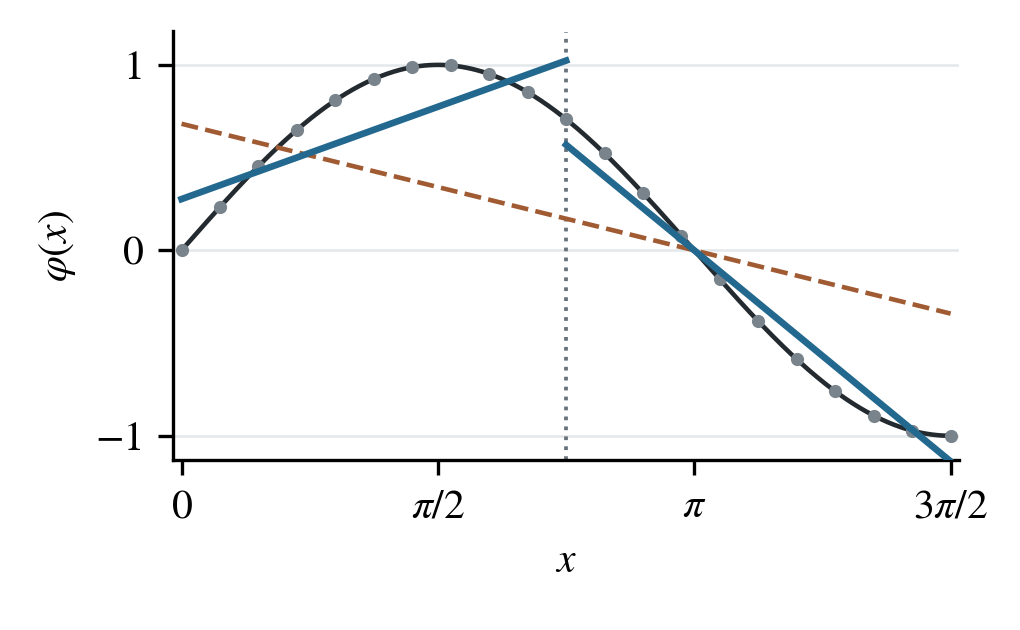
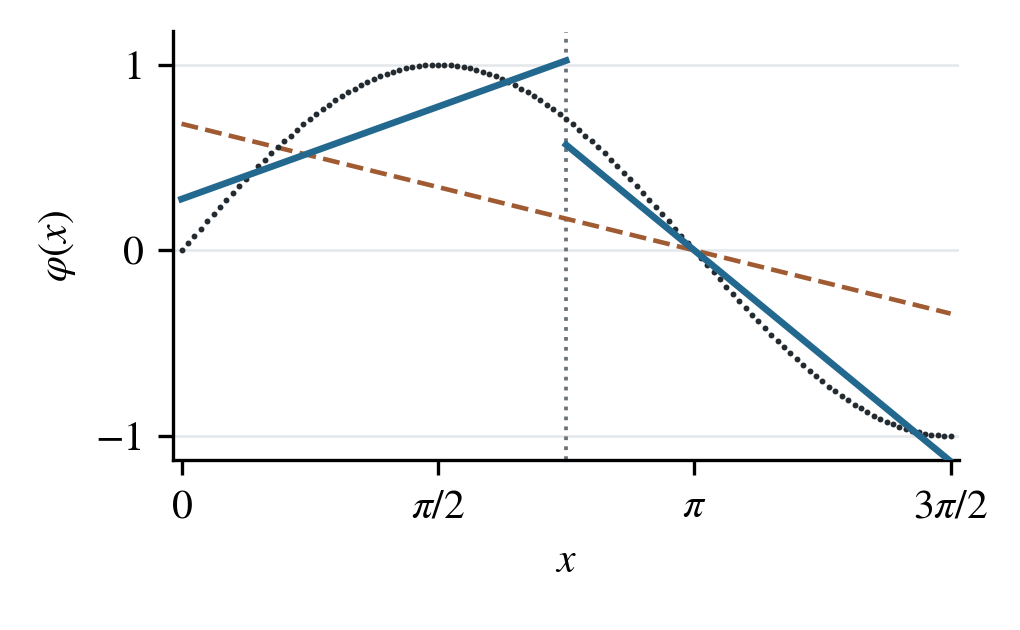
another update

diff --git a/examples/criteria_cmp/sine_split_stages.py b/examples/criteria_cmp/sine_split_stages.py
@@ -69,14 +69,14 @@ def draw_comparison(x, y, rows, threshold, parent_weights):
         "mathtext.fontset": "stix", "font.size": 10, "pdf.fonttype": 42,
         "axes.spines.top": False, "axes.spines.right": False,
     })
-    ink, samples, fit, cut, accent = "#242B30", "#78838B", "#23688E", "#68727A", "#733E77"
+    ink, samples, fit, cut, accent = "#242B30", "#242B30", "#23688E", "#68727A", "#733E77"
     parent_color = "#A05B33"
     figures = []
     grid = np.linspace(x[0], x[-1], 450)
     parent_fit = parent_weights[0] + parent_weights[1] * grid
     names = ("Residual-range", "Maximum-residual")
     handles = [
-        Line2D([], [], color=ink, label=r"$\varphi(x) = \sin x$"),
+        # Line2D([], [], color=ink, label=r"$\varphi(x) = \sin x$"),
         Line2D([], [], color=samples, linestyle="none", marker="o",
                markersize=3.6, label="Samples"),
         Line2D([], [], color=parent_color, linestyle="--", label="Global linear fit"),
@@ -90,9 +90,9 @@ def draw_comparison(x, y, rows, threshold, parent_weights):
             fig, ax = plt.subplots(figsize=(3.4, 2.1))
             fig.subplots_adjust(left=0.17, right=0.94, bottom=0.27, top=0.95)
             error, x_error, fitted = worst_curve_error(pieces)
-            ax.plot(grid, np.sin(grid), color=ink, linewidth=1.1, zorder=2)
+            # ax.plot(grid, np.sin(grid), color=ink, linewidth=1.1, zorder=2)
             ax.plot(grid, parent_fit, color=parent_color, linestyle="--", linewidth=1.1, zorder=2)
-            ax.scatter(x[::6], y[::6], color=samples, s=10, linewidth=0, zorder=3)
+            ax.scatter(x, y, color=samples, s=2, linewidth=0, zorder=3)
             for i, piece in enumerate(pieces):
                 low, high = piece["bounds"][0]
                 xx = np.array([low, high])
@@ -135,7 +135,7 @@ def main():
     api = load_estimator(args.source)
     x = np.linspace(0.0, 1.5 * np.pi, 121)
     y = np.sin(x)
-    alpha, beta, threshold = 0.5, 0.1, 0.20
+    alpha, beta, threshold = 0.5, 0.1, 0.2
     strategies = ("residual_range", "maximum_residual")
     parent_weights, _ = api["fit_polynomial_pac"](x[:, None], y, 1)
     parent_errors = api["compute_errors"](x[:, None], y, parent_weights, 1)
